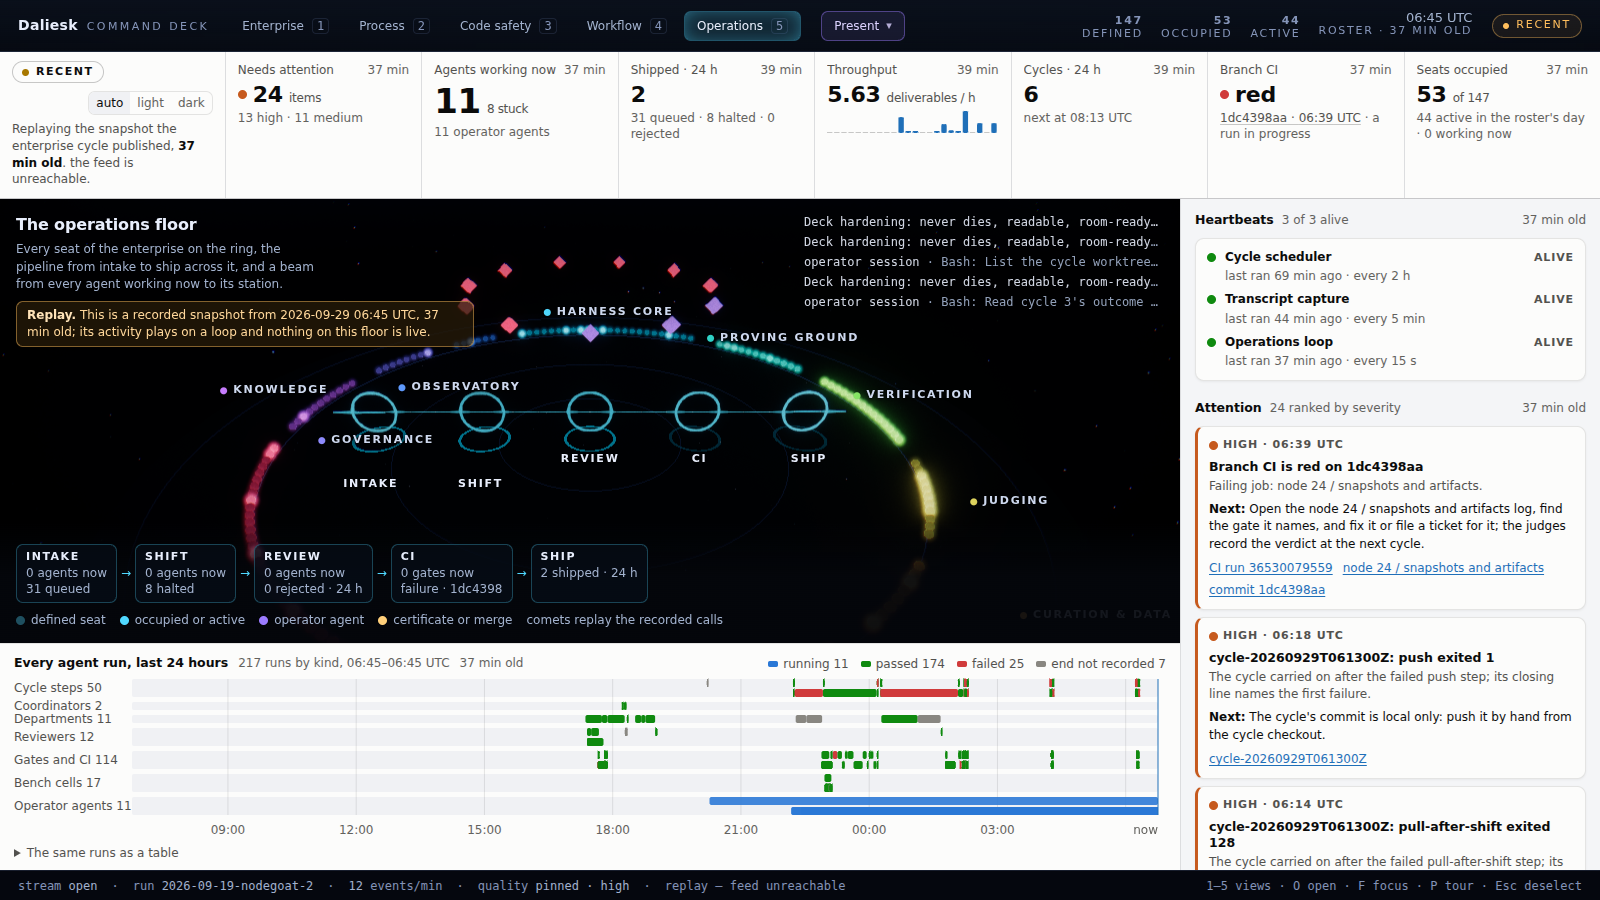
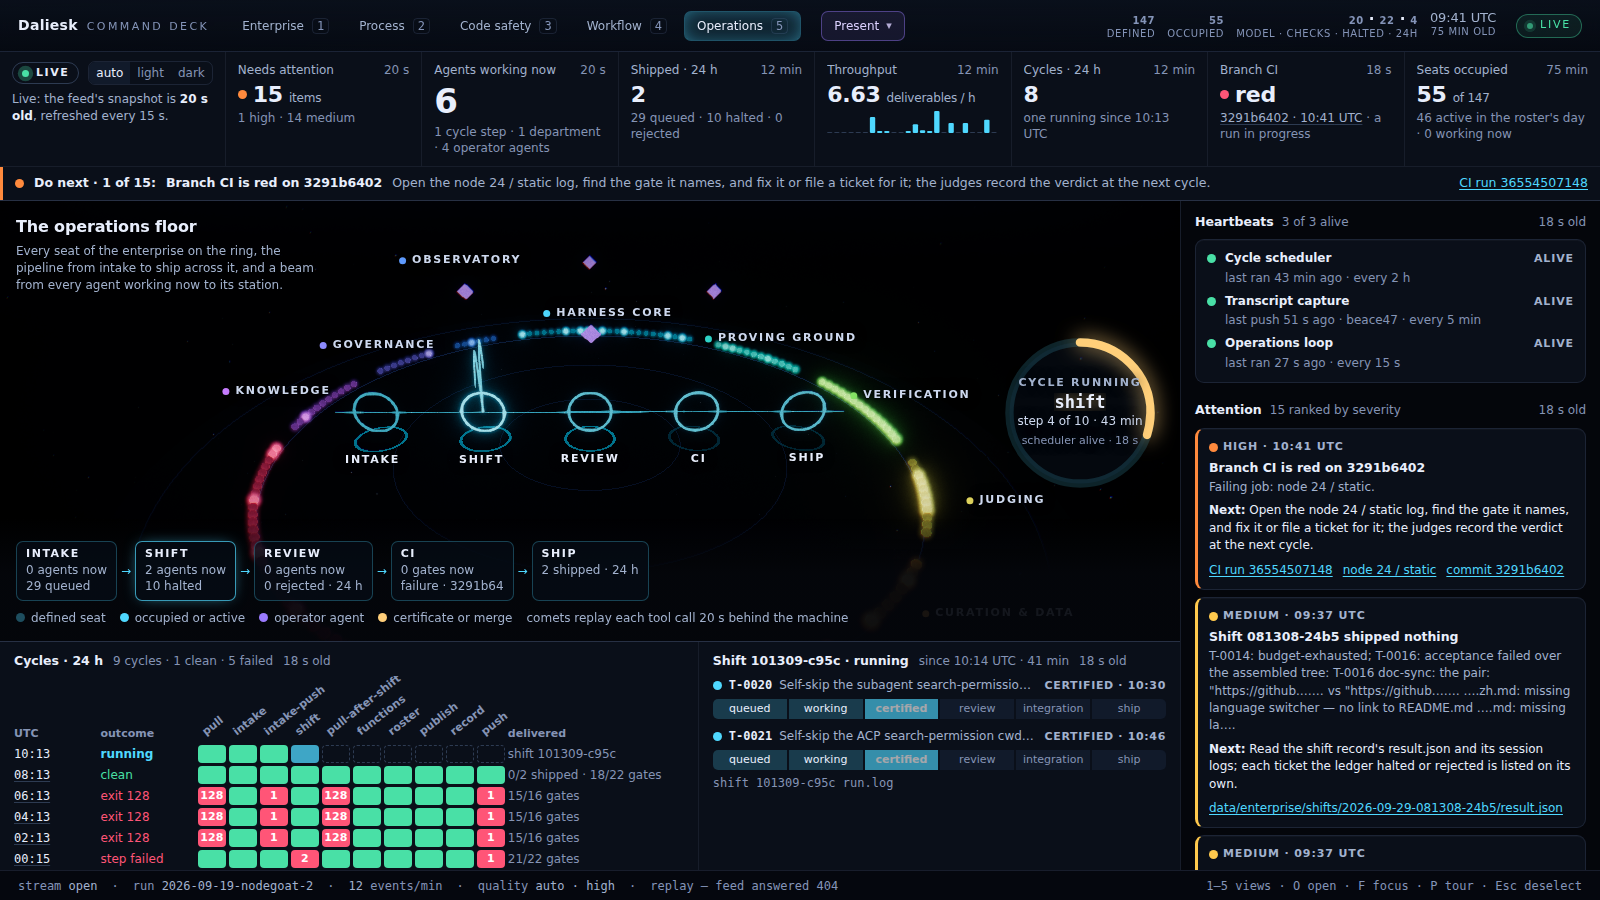
fix(ops): keep the phone header's seat tile full width, fit the cycle matrix's columns
Do next now comes first in the top strip's source order, so a phone reads
it right after the mode badge and the seats tile keeps its full row; the
desktop grid still places it under the tiles. The cycle matrix's step
cells are narrower, the rotated step names clear their row, and the
delivered cell reads "0/2 shipped · 18/22 gates" with the full counts
and the shift in its title. Ticket ids in the shipped list no longer
wrap. ProgramGoal is no longer exported, since nothing imports it. The
README's Operations screenshots show the new view.

Claude-Session: https://claude.ai/code/session_01HEXjzxR7CyMizem5kFAB4C

diff --git a/apps/command-deck/components/ops/Mission.tsx b/apps/command-deck/components/ops/Mission.tsx
@@ -182,7 +182,7 @@ function CycleTimeline({ snapshot }: { snapshot: OpsSnapshot }): ReactNode {
         <div className={styles.empty}>Neither the cycle logs nor the branch history could be read.</div>
       ) : (
         <div className={styles.matrixScroll}>
-          <div className={styles.matrix} style={{ gridTemplateColumns: `max-content max-content repeat(${Math.max(1, columns.length)}, minmax(28px, 38px)) minmax(120px, 1fr)` }} role="table" aria-label="Each cycle's steps and their exit codes">
+          <div className={styles.matrix} style={{ gridTemplateColumns: `max-content max-content repeat(${Math.max(1, columns.length)}, minmax(22px, 28px)) minmax(120px, 1fr)` }} role="table" aria-label="Each cycle's steps and their exit codes">
             <div className={styles.matrixRow} role="row">
               <span className={styles.matrixHead} role="columnheader">UTC</span>
               <span className={styles.matrixHead} role="columnheader">outcome</span>
@@ -211,7 +211,7 @@ function CycleTimeline({ snapshot }: { snapshot: OpsSnapshot }): ReactNode {
                     ? <i key={name} className={styles.cell} role="cell" data-state="absent" title={`${name}: did not run`} />
                     : <i key={name} className={styles.cell} role="cell" data-state={step.state} title={stepTitle(step, now)}>{step.state === 'failed' ? step.exit : null}</i>
                 })}
-                <span className={styles.cycleSum} role="cell" title={[cycleSummary(cycle), cycle.shift === undefined ? '' : `shift ${cycle.shift}`].filter(Boolean).join(' · ')}>{cycleSummary(cycle) || (cycle.shift === undefined ? '' : `shift ${cycle.shift}`)}</span>
+                <span className={styles.cycleSum} role="cell" title={cycleDetail(cycle)}>{cycleSummary(cycle) || (cycle.shift === undefined ? '' : `shift ${cycle.shift}`)}</span>
               </div>
             ))}
           </div>
@@ -221,13 +221,26 @@ function CycleTimeline({ snapshot }: { snapshot: OpsSnapshot }): ReactNode {
   )
 }
 
-/** What a cycle delivered, from its record: its tickets by status and its gates. */
+/** What a cycle delivered in full words, for the delivered cell's title. */
+function cycleDetail(cycle: OpsCycle): string {
+  const parts: string[] = []
+  if (cycle.shift !== undefined) parts.push(`shift ${cycle.shift}`)
+  if (cycle.tickets !== undefined) parts.push(`tickets: ${cycle.tickets.shipped} shipped, ${cycle.tickets.rejected} rejected, ${cycle.tickets.halted} halted`)
+  if (cycle.functions !== undefined) parts.push(`gates: ${cycle.functions.pass} pass, ${cycle.functions.fail} fail, ${cycle.functions.error} error`)
+  return parts.join('; ')
+}
+
+/** What a cycle delivered, from its record: its tickets shipped of those worked, and its gates passed of those run. */
 function cycleSummary(cycle: OpsCycle): string {
   const parts: string[] = []
-  if (cycle.tickets !== undefined) parts.push(`${cycle.tickets.shipped} shipped · ${cycle.tickets.halted} halted${cycle.tickets.rejected === 0 ? '' : ` · ${cycle.tickets.rejected} rejected`}`)
+  if (cycle.tickets !== undefined) {
+    const { shipped, rejected, halted } = cycle.tickets
+    const total = shipped + rejected + halted
+    if (total > 0) parts.push(`${shipped}/${total} shipped`)
+  }
   if (cycle.functions !== undefined) {
     const total = cycle.functions.pass + cycle.functions.fail + cycle.functions.error
-    if (total > 0) parts.push(`gates ${cycle.functions.pass}/${total} pass`)
+    if (total > 0) parts.push(`${cycle.functions.pass}/${total} gates`)
   }
   return parts.join(' · ')
 }
@@ -341,7 +354,7 @@ export function ShippedTickets({ snapshot }: { snapshot: OpsSnapshot }): ReactNo
   const day = snapshot.generatedAt.slice(0, 10)
   return (
     <section className={styles.section} aria-label="Shipped tickets">
-      <h2>Shipped tickets <small>{shipped === null ? 'ledger unknown' : `${shipped.length} newest · commit and Branch CI verdict`}</small><Age at={factsAsOf(snapshot, ['ledger', 'ci'])} /></h2>
+      <h2>Shipped tickets <small>{shipped === null ? 'ledger unknown' : `${shipped.length} newest · commit · CI verdict`}</small><Age at={factsAsOf(snapshot, ['ledger', 'ci'])} /></h2>
       {shipped === null || shipped.length === 0 ? <div className={styles.empty}>{shipped === null ? 'The ledger could not be read.' : 'The ledger records no shipped ticket.'}</div> : (
         <div className={`${styles.card} ${styles.rows}`}>
           {shipped.map(entry => (

diff --git a/apps/command-deck/components/ops/ops.module.css b/apps/command-deck/components/ops/ops.module.css
@@ -484,7 +484,9 @@
 /* ------------------------------------------------------------ next action - */
 
 /* The attention queue's first item across the top strip: the one thing to do now. */
+/* First in the strip's source order, so a phone reads it right after the mode; the desktop grid places it under the tiles. */
 .nextAction {
+  order: 1;
   grid-column: 1 / -1;
   display: flex;
   flex-wrap: wrap;
@@ -580,7 +582,7 @@
 .matrixScroll { overflow-x: auto; }
 .matrix { display: grid; gap: 3px 3px; align-items: center; min-width: 560px; font-size: 12px; }
 .matrixRow { display: contents; }
-.matrixHead[data-step] { position: relative; height: 58px; padding: 0; overflow: visible; }
+.matrixHead[data-step] { position: relative; height: 66px; padding: 0; overflow: visible; }
 .matrixHead[data-step] span {
   position: absolute;
   left: calc(50% - 4px);
@@ -661,7 +663,7 @@
 .shipRow { display: flex; flex-direction: column; gap: 2px; font-size: 12px; }
 .shipTop, .shipBottom { display: flex; gap: 8px; align-items: baseline; min-width: 0; }
 .shipBottom { justify-content: space-between; flex-wrap: wrap; }
-.shipRow b { font-family: var(--font-mono); color: var(--o-ink); font-weight: 600; }
+.shipRow b { flex: none; white-space: nowrap; font-family: var(--font-mono); color: var(--o-ink); font-weight: 600; }
 .shipTitle { color: var(--o-ink-2); overflow: hidden; text-overflow: ellipsis; white-space: nowrap; min-width: 0; }
 .shipMeta { color: var(--o-ink-3); }
 .shipMeta a { color: var(--o-accent); font-family: var(--font-mono); }

diff --git a/scripts/enterprise-ops-sources.ts b/scripts/enterprise-ops-sources.ts
@@ -579,7 +579,7 @@ export function parseCaptureLog(text: string): CaptureLog {
 // ---------------------------------------------------------------------------
 
 /** One goal of a shift's program: a ticket, as the program ledger's newest event states it. */
-export interface ProgramGoal {
+interface ProgramGoal {
   /** The goal's key, `t-0014`. */
   key: string
   /** The ticket's title, from the goal's objective, when it opens with `Ticket T-NNNN: <title>`. */

diff --git a/apps/command-deck/components/ops/OpsView.tsx b/apps/command-deck/components/ops/OpsView.tsx
@@ -204,8 +204,8 @@ function TopStrip({ reading, theme, setTheme }: TopStripProps): ReactNode {
         </div>
         <div className={styles.modeText}>{modeLine(reading, now)}</div>
       </div>
-      {snapshot === undefined ? null : <Tiles snapshot={snapshot} />}
       {snapshot === undefined ? null : <NextAction snapshot={snapshot} />}
+      {snapshot === undefined ? null : <Tiles snapshot={snapshot} />}
     </header>
   )
 }

diff --git a/apps/command-deck/README.md b/apps/command-deck/README.md
@@ -93,7 +93,7 @@ The view says which of three modes it is in, in its own badge and in the header'
 
 The hosted deck is live while the operator's machine runs the [operations loop](mirror/README.md#the-operations-loop), and otherwise shows the snapshot the last enterprise cycle published.
 
-![The Operations view at 1600×900: glance tiles, the operations floor, the attention queue and the 24-hour swimlanes](docs/ops.png)
+![The Operations view at 1600×900: glance tiles, the Do next line, the operations floor with the scheduler's clock, the cycle matrix, the shift board and the attention queue](docs/ops.png)
 
 ![The Operations view at phone width](docs/ops-phone.png)
 

diff --git a/apps/command-deck/README.zh.md b/apps/command-deck/README.zh.md
@@ -93,7 +93,7 @@ pnpm --dir apps/command-deck fixtures
 
 运营者的机器运行[运营循环](mirror/README.md#the-operations-loop)时，托管的 deck 是实时的；否则它显示上一个企业周期发布的快照。
 
-![1600×900 下的运营视图：速览卡片、运营大厅、关注队列与 24 小时泳道图](docs/ops.png)
+![1600×900 下的运营视图：速览卡片、“Do next”行、带调度器时钟的运营大厅、周期矩阵、班次看板与关注队列](docs/ops.png)
 
 ![手机宽度下的运营视图](docs/ops-phone.png)
 
